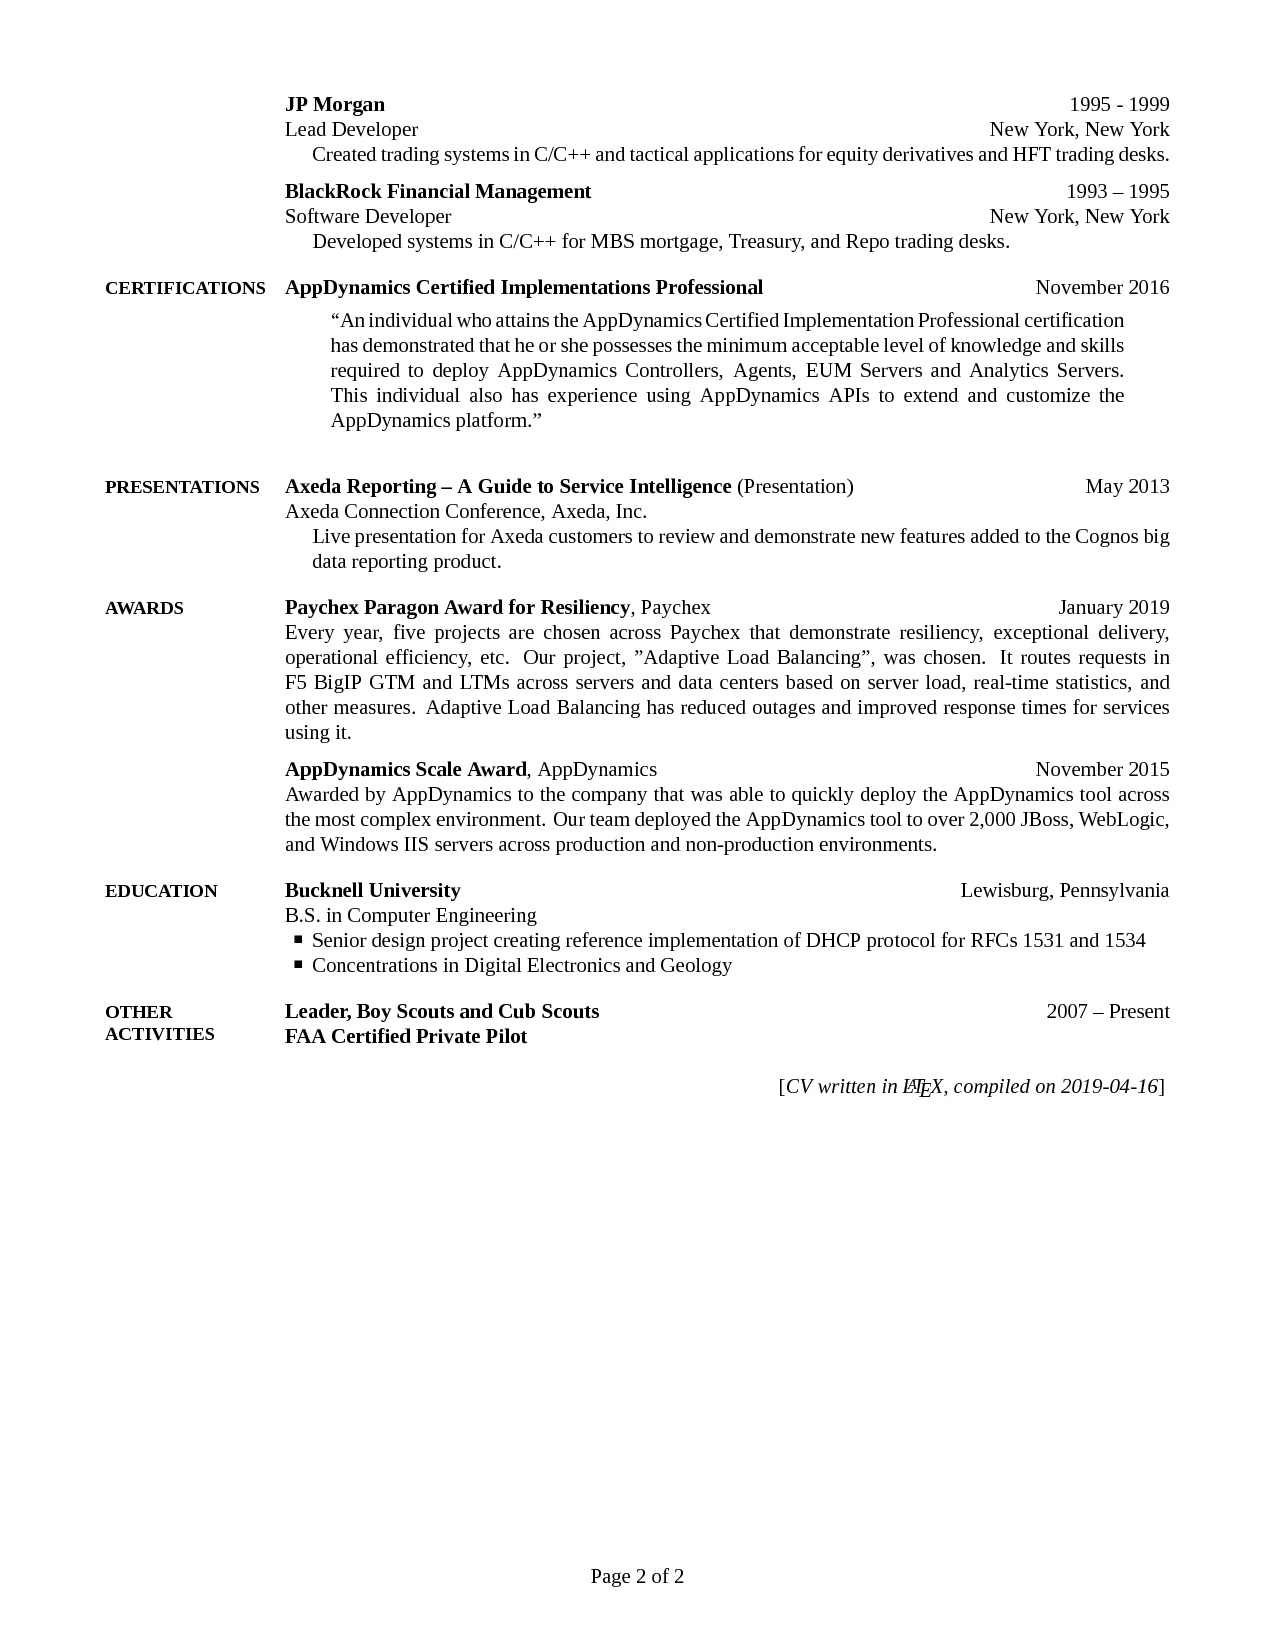
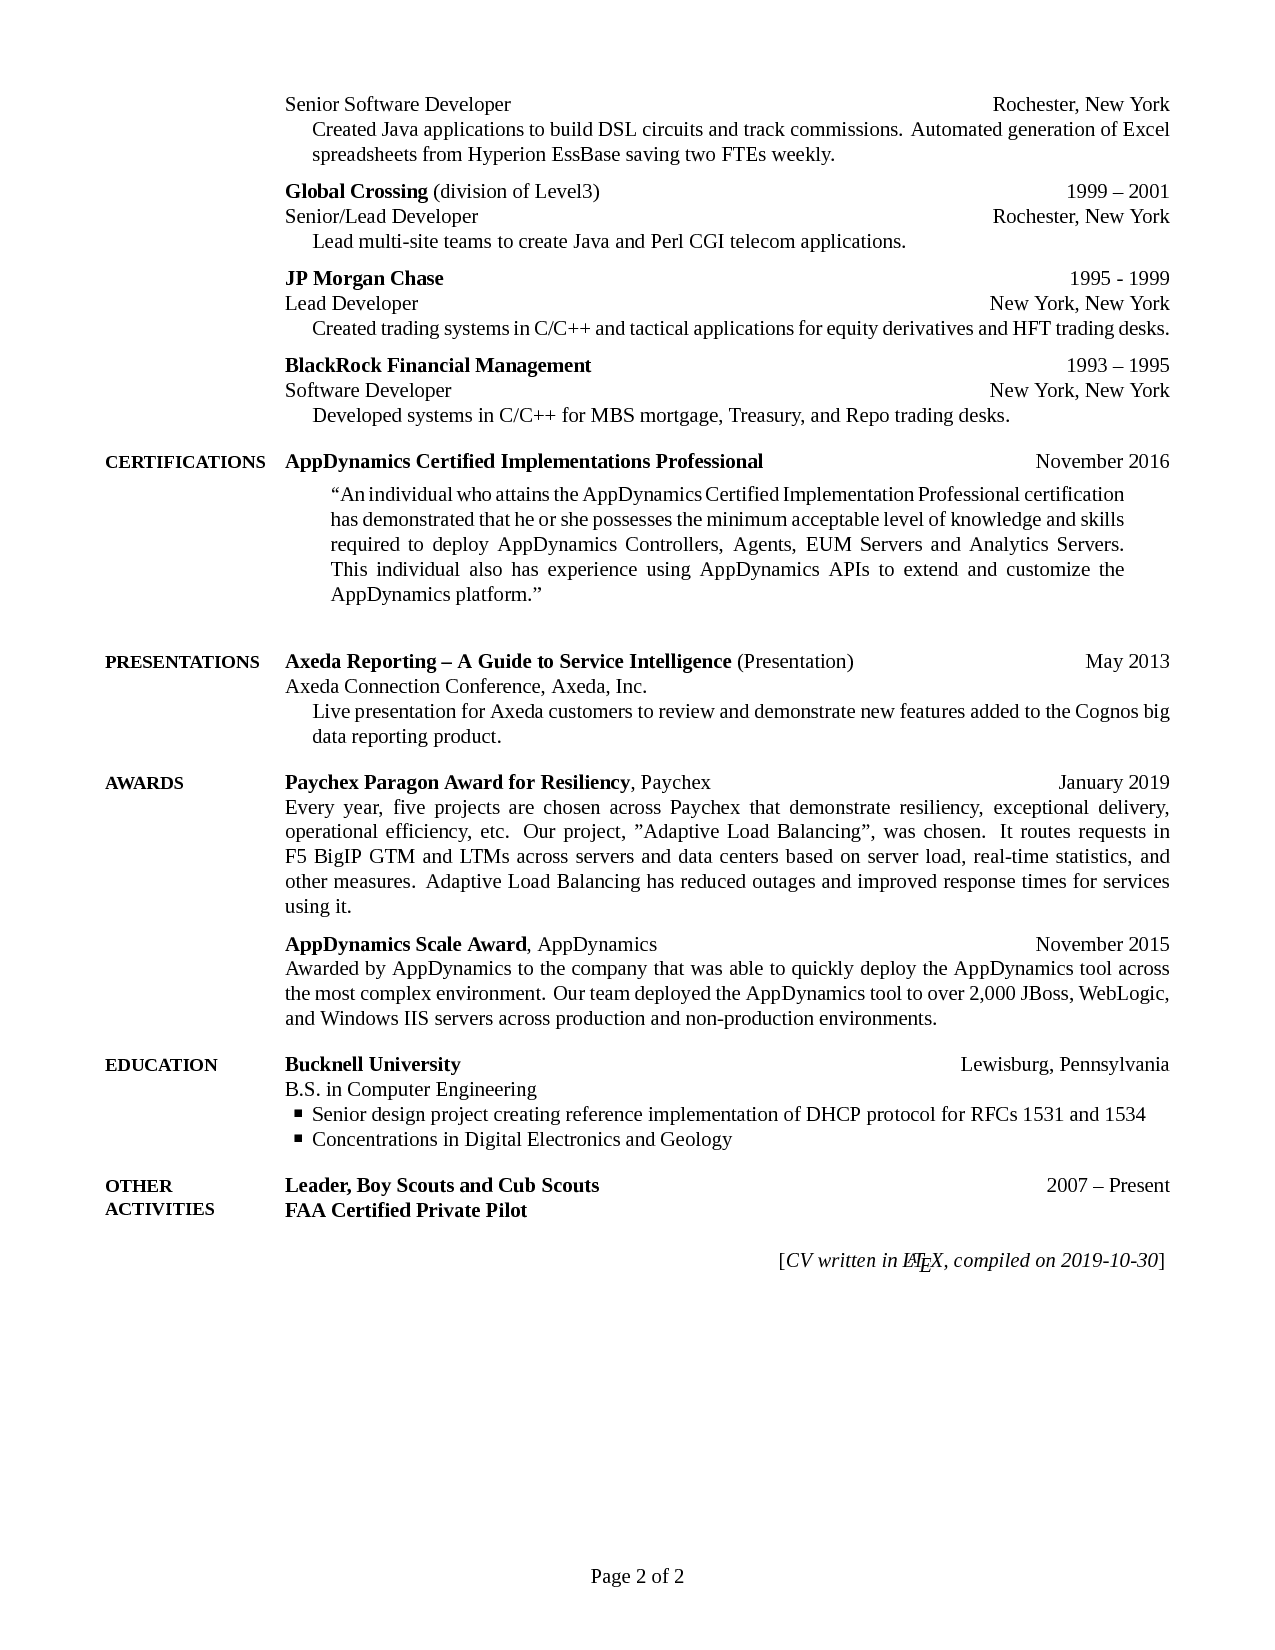
first cut at catalant

diff --git a/Ed_Griebel_CV.tex b/Ed_Griebel_CV.tex
@@ -113,10 +113,33 @@ Work Experience}
 {Professional Work Experience}
 {PDF:ProfessionalWorkExperience}
 \Entry
-\href{http://www.paychex.com}
-{\textbf{Paychex, Inc}}
+\href{http://www.gocatalant.com}
+{\textbf{Catalant Technologies}}
 \hfill
-\DatestampYM{2013}{06} -- Present
+\DatestampYM{2019}{06} -- Present
+
+Principal Software Engineer
+\hfill
+Rochester, New York
+
+\begin{Detail}
+Catalant helps companies accelerate growth, drive efficiency, and innovate rapidly with a SaaS platform that organizes work and dynamically matches people to opportunities. 
+
+\BulletItem
+My initial duties are creating new marketable features while learning the business and the platform.
+
+\Gap
+Technologies: Python, Flask, JavaScript, MySQL, Bootstrap
+
+\end{Detail}
+
+\BigGap
+
+\Entry
+\href{http://www.paychex.com}
+{\textbf{Paychex}}
+\hfill
+\DatestampYM{2013}{06} -- \DatestampYM{2019}{06}
 
 Middleware Architect %% Crappy Name!!
 \hfill
@@ -168,7 +191,7 @@ Lecturer for undergraduate Java and DBMS/SQL courses.
 \iffalse %% ORIGINAL PAYCHEX SECTION
 \Entry
 \href{http://www.paychex.com/}
-{\textbf{Paychex, Inc}}
+{\textbf{Paychex}}
 \hfill 
 Rochester, New York
 
@@ -201,7 +224,7 @@ Technologies: Java, JavaScript, JQuery-UI, Oracle PL/SQL, Scikit-Learn, TensorFl
 \BigGap
 
 \Entry
-\textbf{Axeda, Inc} (division of PTC)
+\textbf{Axeda} (division of PTC)
 \hfill 
 \DatestampYM{2010}{06} --  \DatestampYM{2013}{06}
 
@@ -298,7 +321,7 @@ Lead multi-site teams to create Java and Perl CGI telecom applications.
 \BigGap
 \Entry
 \href{http://www.jpmorganchase.com/}
-{\textbf{JP Morgan}}
+{\textbf{JP Morgan Chase}}
 \hfill 
 %% \DatestampYM{1995}{06} -- \DatestampYM{1999}{02}
 \DatestampY{1995} - \DatestampY{1999}
